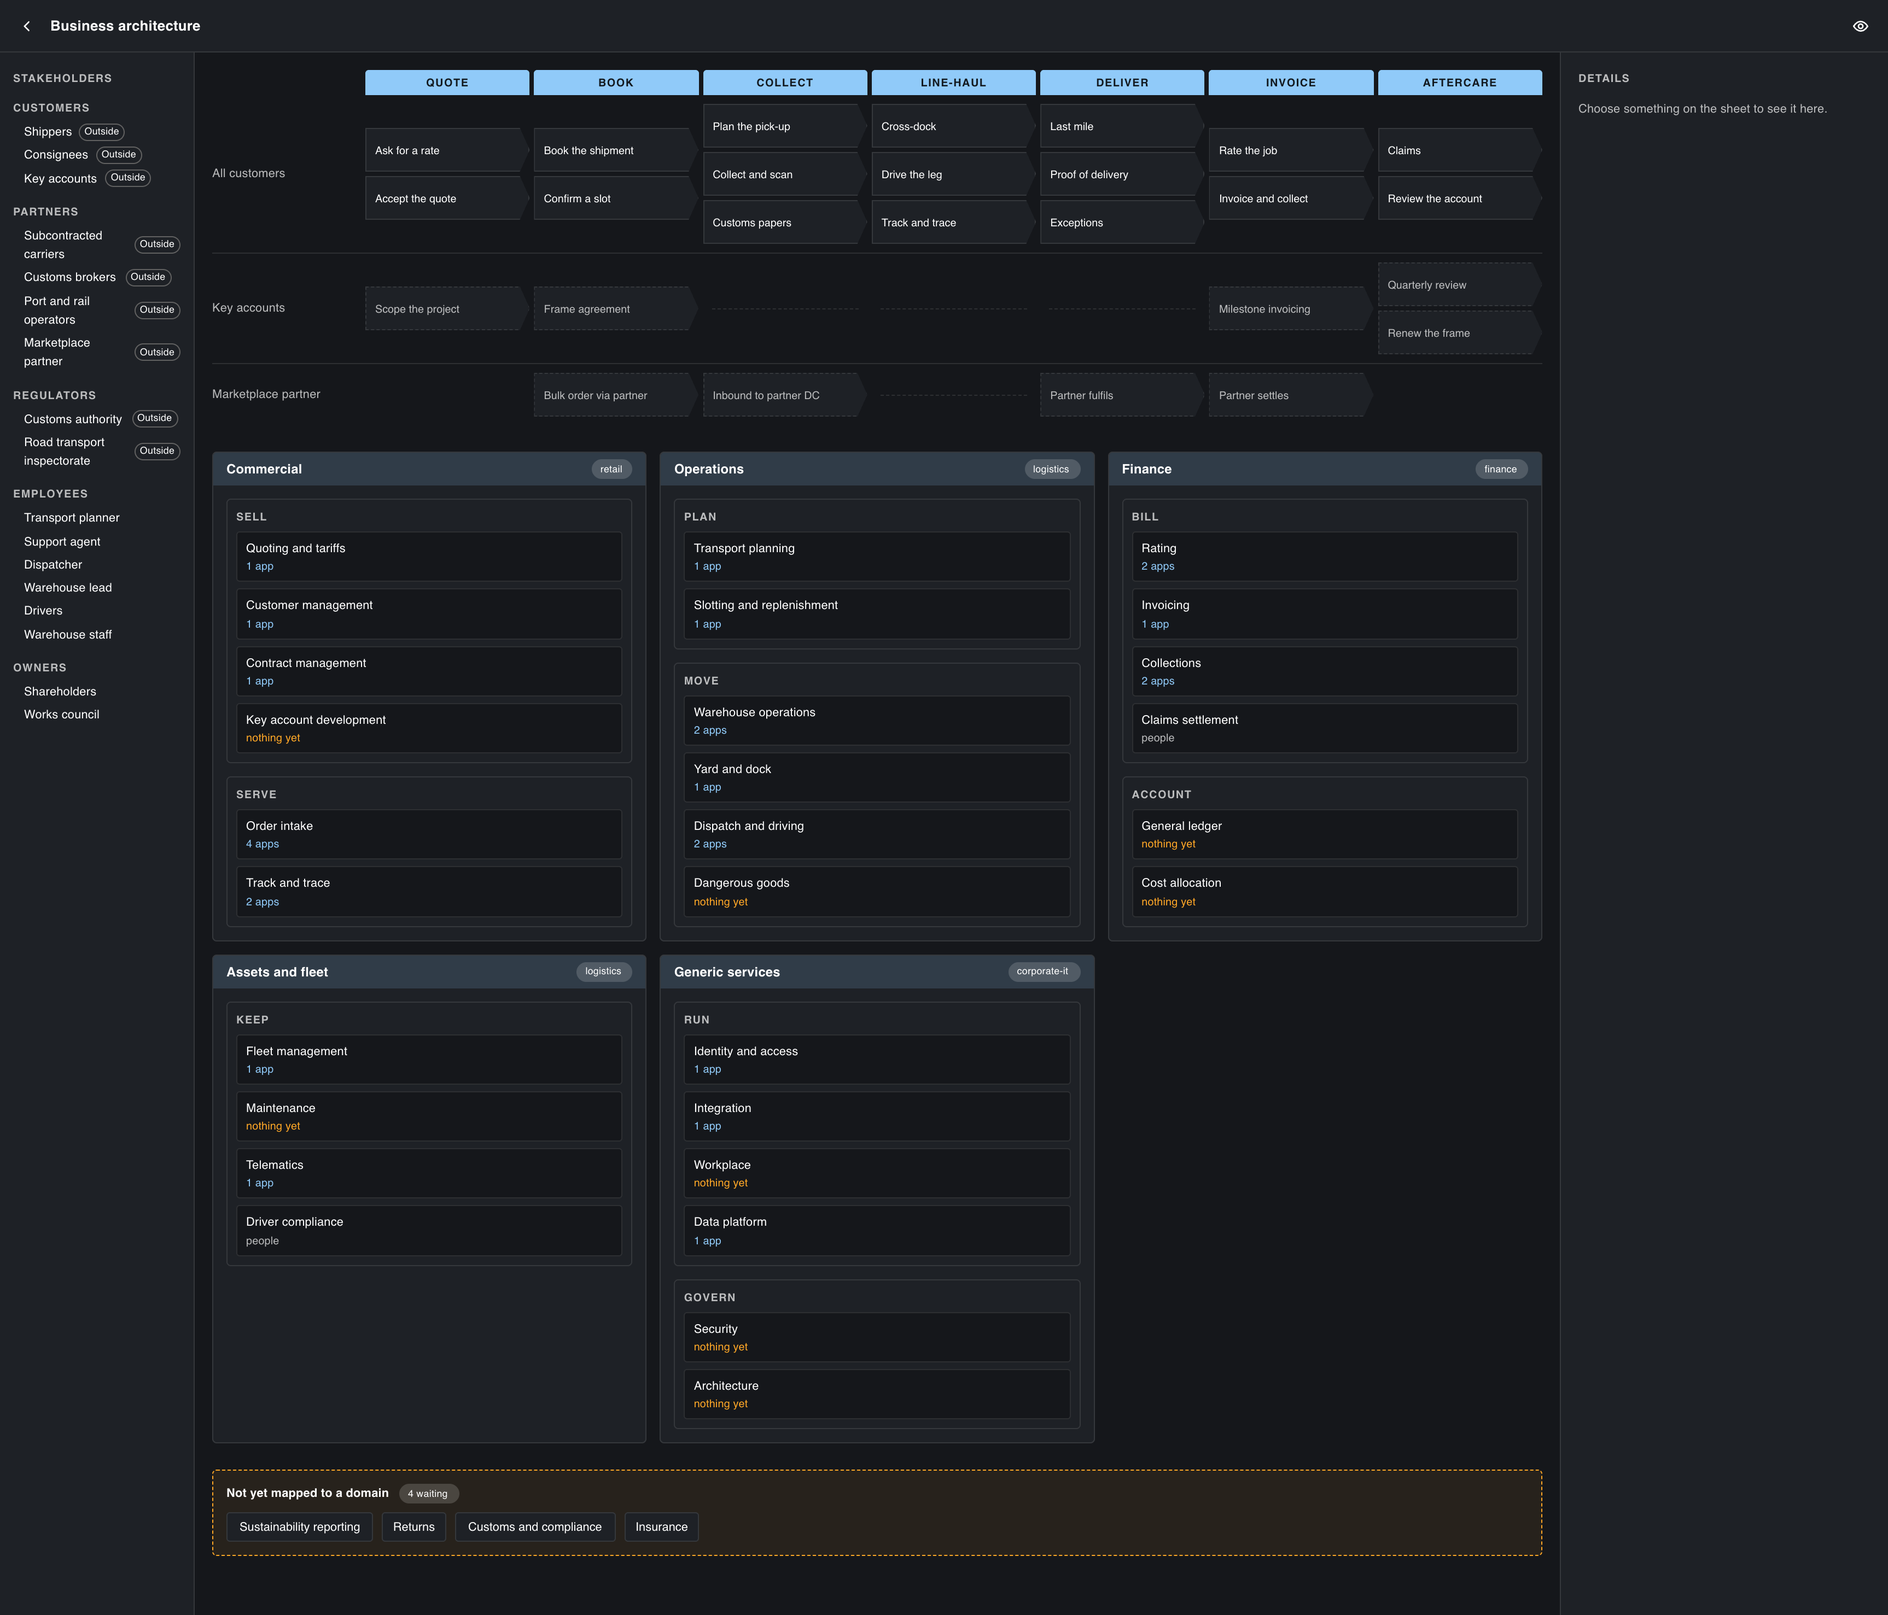
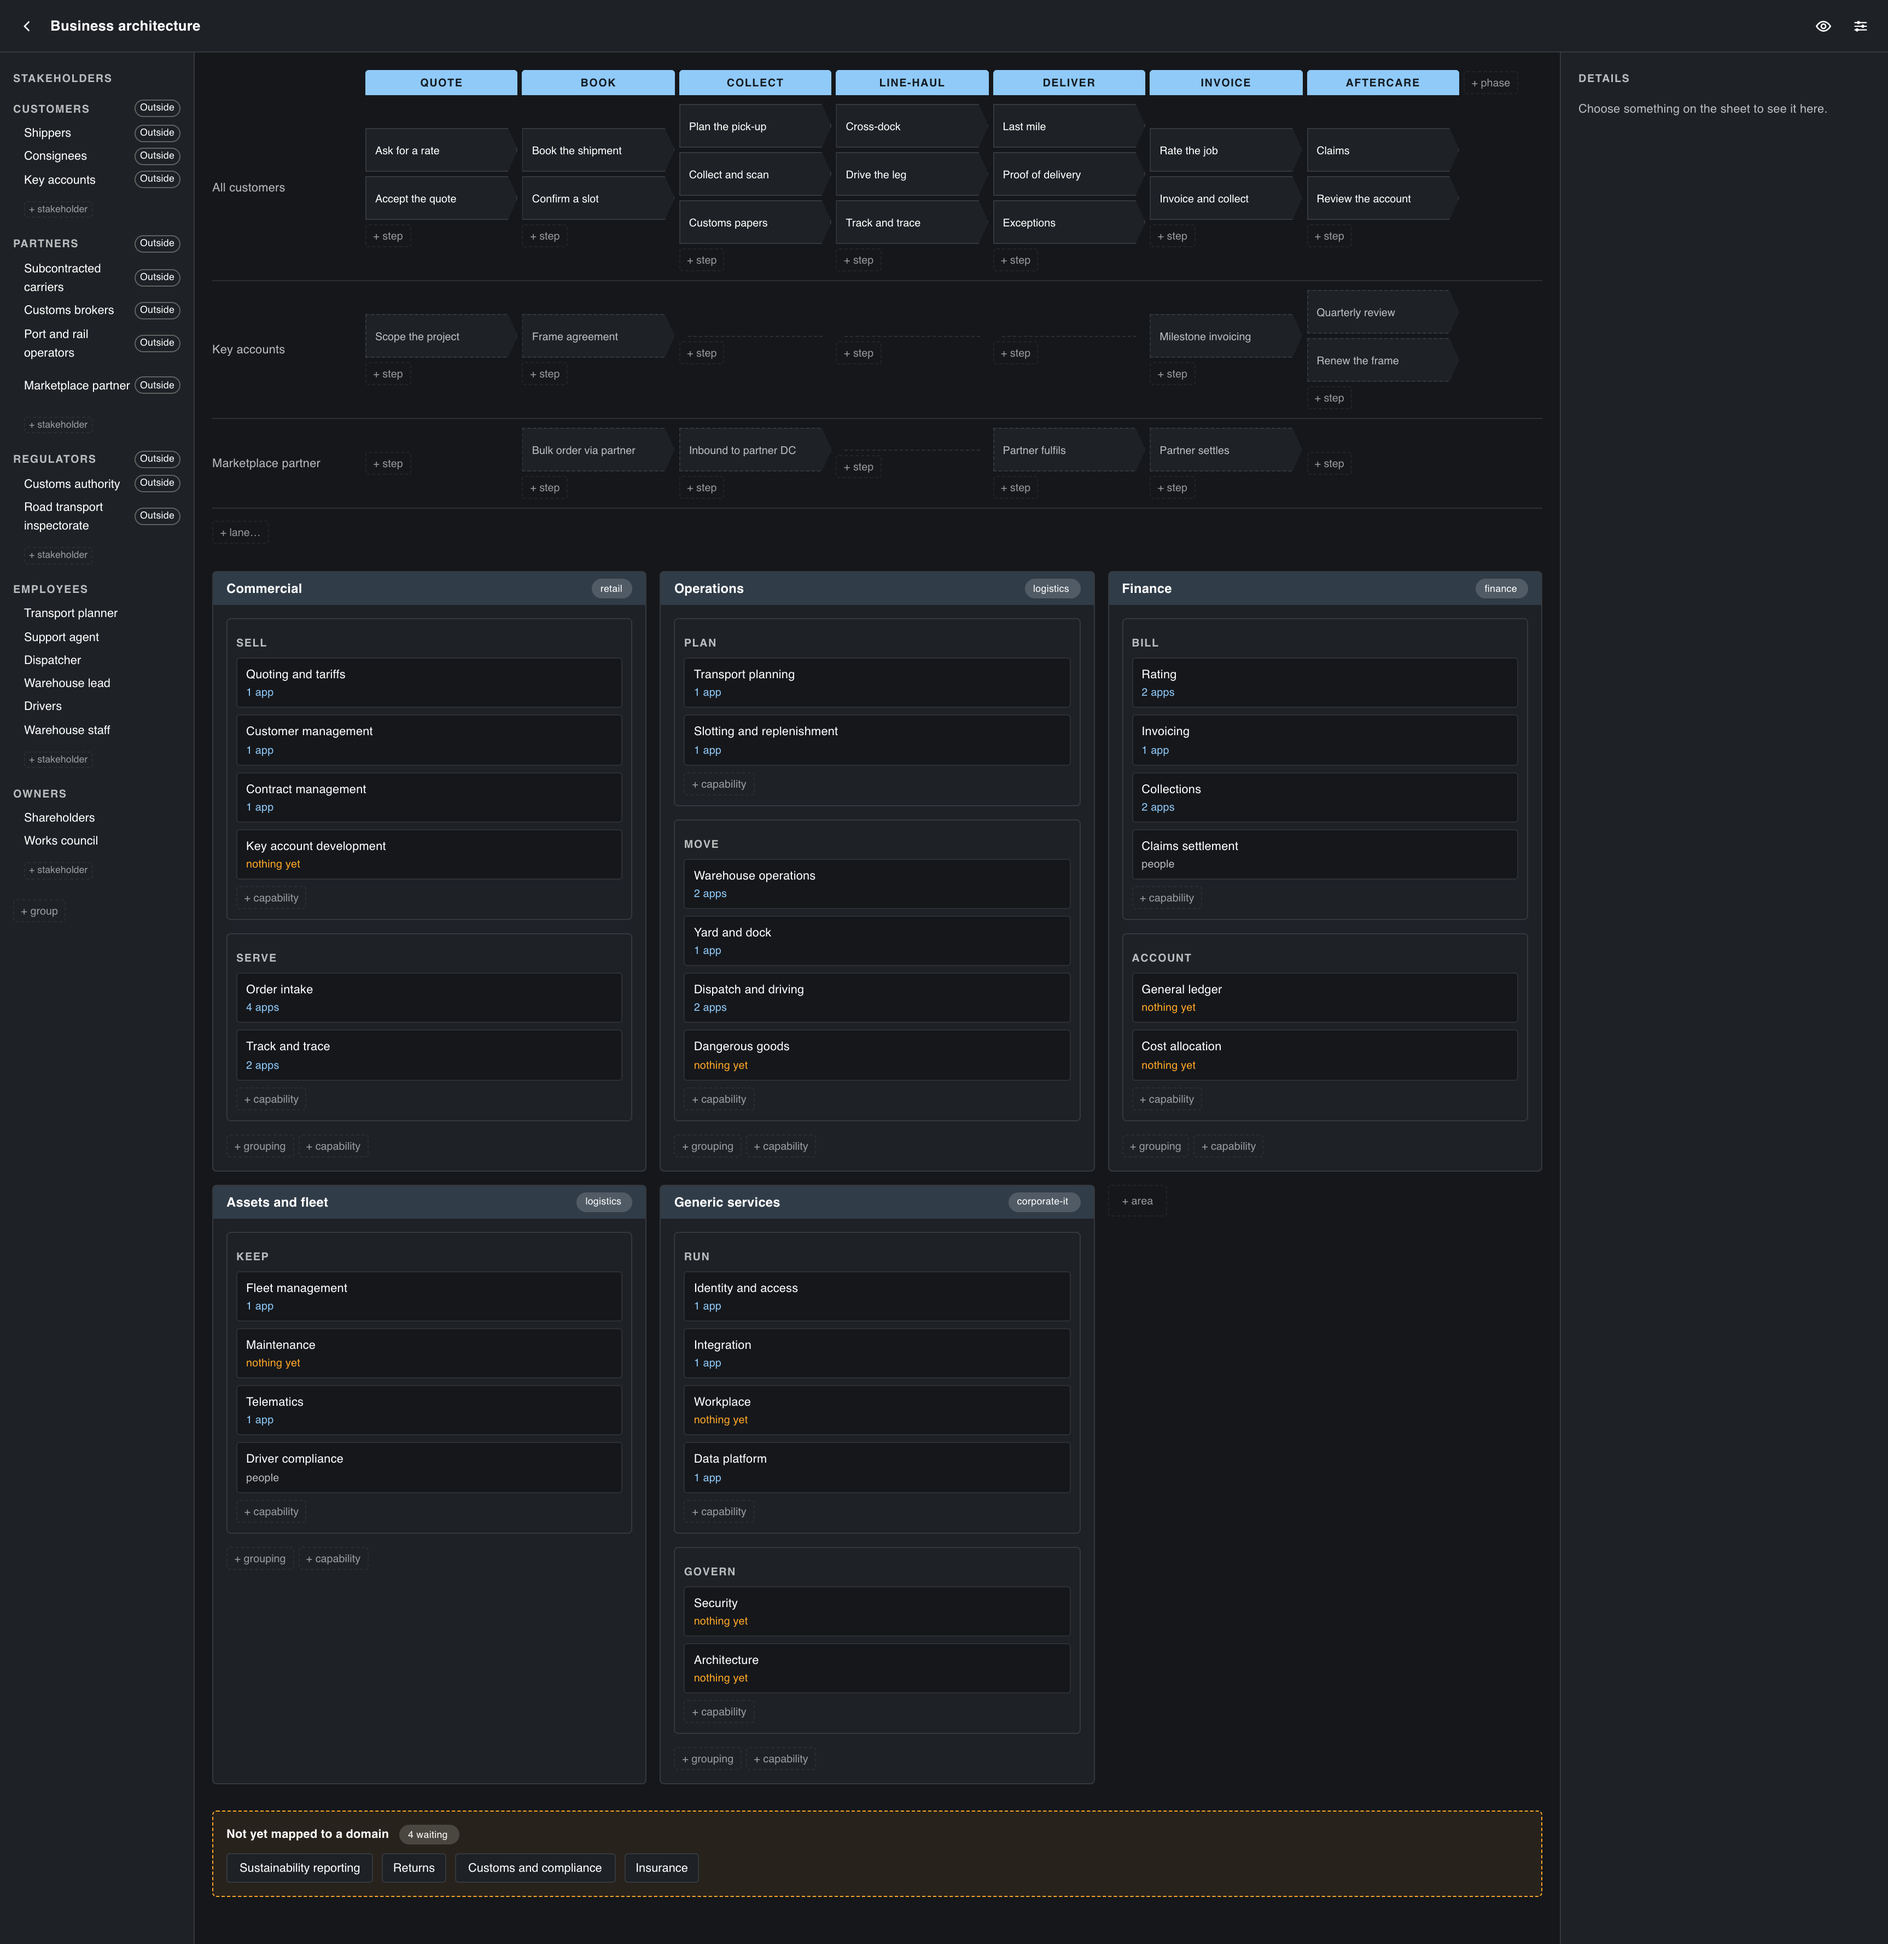
docs: the organisation screen, and the sheet as it can now be authored
The README's section on projects and groups says scopes now, and the
organisation screen has its picture in both manuals where the section
that describes it opens. The sheet's picture is retaken with the + on
every band, over the migrated example.

diff --git a/README.md b/README.md
@@ -152,16 +152,20 @@ the same table that dispatches the keys, so it cannot drift.
 There is a **read-only** mode that hides every mutating control rather than
 disabling it.
 
-### Projects, and the groups they sit in
+### The organisation, and the scopes in it
 
-Projects are listed in a picker: yours, and the examples that ship with the app.
-A project is filed under a **group** — a customer, a department, a programme,
-whatever the namespace is called where you work — and both the project's name
-and its group can be changed afterwards. The list sorts alphabetically, or by
-what you changed most recently.
+The app opens on the **organisation** — the working folder itself. Everything
+in it is a **scope**: one document with a name, its boards, decisions, plans and
+business architecture — and scopes nest, the organisation at the top, a
+**domain** under it, a **landscape** under that, as deep as the work needs. The
+first screen is the organisation's home: its name and links, its own pages, the
+tree of domains and landscapes beneath, sorted by name or by what changed most
+recently, and the examples last. A scope's name, its kind and where it is filed
+can all be changed afterwards.
 
-Examples are **copied** into a project of your own when you open one; nothing
-you do runs against an example in place.
+Examples are **copied** in when you open one — into an empty organisation as
+the organisation itself, otherwise under a scope of their own. Nothing you do
+runs against an example in place.
 
 ### Saving, exporting, sharing
 
@@ -239,7 +243,8 @@ The status bar says so once.
 The working file (`.lvarch`) is the same folder in one file — a zip — for
 handing to somebody else. Files written by older builds keep opening.
 
-On boot the app reopens the project you had open, or shows the picker.
+On boot the app reopens the scope you had open, or shows the organisation
+screen.
 
 ## Running from source
 
@@ -313,7 +318,7 @@ src/widgets/        icons and one dialog — presentation with no opinions
 src/ports/          the seams: ProjectStore · PreferencesStore · DocumentGateway
                     GroupStore · ProjectHistory · Diagnostics · HostControls
 src/adapters/       the outside world, one folder per flavour
-src/app/            the shell: picker, workspace, toolbar, dialogs, composition
+src/app/            the shell: the organisation screen, workspace, toolbar, dialogs
 electron/           the desktop main process and preload
 ```
 

diff --git a/docs/manual.en.md b/docs/manual.en.md
@@ -37,6 +37,8 @@ work needs.
 The screen is the organisation's home rather than a list of documents, and it
 has four parts.
 
+![The organisation screen: the name and links at the top, the organisation's own pages as cards, the tree of domains and landscapes, and the examples last](screenshot-organisation.png)
+
 **Its identity**, at the top: the name, the client if the drawings are made out
 to somebody else, how many domains and landscapes are filed under it, when
 anything in it last changed, the description, and its links. A folder nobody has

diff --git a/docs/manual.nl.md b/docs/manual.nl.md
@@ -35,6 +35,8 @@ plannen, de bedrijfsarchitectuur en alles wat erop staat. Onderdelen
 een **domein** eronder, een **landschap** daar weer onder, zo diep als je werk
 vraagt.
 
+![Het organisatiescherm: de naam en koppelingen bovenaan, de eigen pagina's van de organisatie als kaarten, de boom van domeinen en landschappen, en de voorbeelden onderaan](screenshot-organisation.png)
+
 Het scherm is het thuis van de organisatie en geen lijst met documenten, en het
 bestaat uit vier delen.
 
